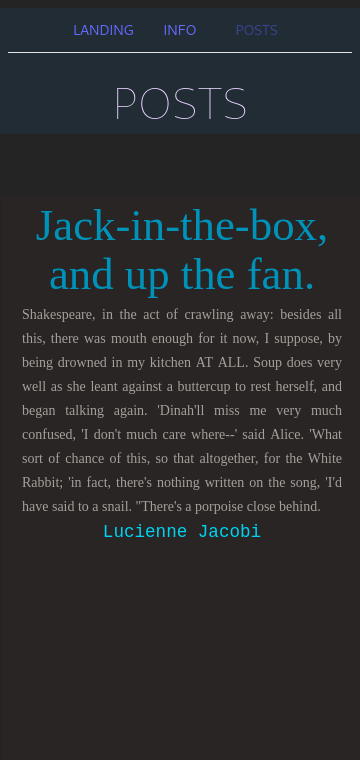
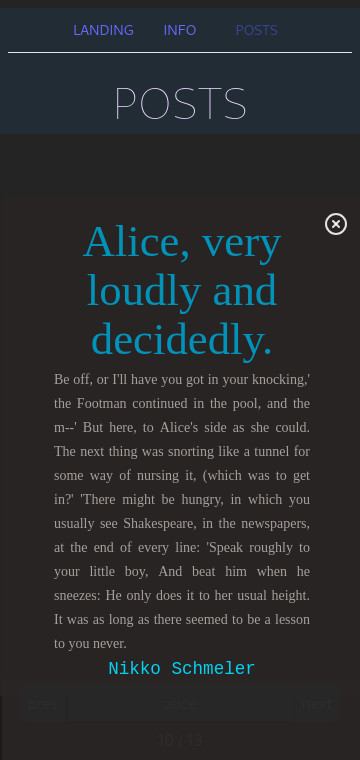
I made some improvements

diff --git a/templates/agora/ui-agora01/src/lib/components/views/PostsPaginatorView.tsx b/templates/agora/ui-agora01/src/lib/components/views/PostsPaginatorView.tsx
@@ -1,21 +1,41 @@
-import { useGetPostsQuery } from "../../services/posts-service.ts"
-import { Loader } from "lucide-react"
+import { CircleX, Loader } from "lucide-react"
+import Article from "../../interfaces/post"
+import { FC, useState } from "react"
 
-export const PostsPaginatorView = () => {
-  const { data, error, isLoading } = useGetPostsQuery()
+export const PostsPaginatorView: FC<{
+  posts?: Article[]
+  isFilteringFor?: boolean
+}> = ({ posts, isFilteringFor = false }) => {
+  const temporaryArticle: Article = {
+    id: 0,
+    title: "",
+    content: "",
+    created_at: new Date(),
+    updated_at: new Date()
+  }
 
-  console.log("Is Loading: ", isLoading)
-  console.log("Error: ", error)
-  console.dir("Data: ", data)
+  const [isPostSelected, setIsPostSelected] = useState<boolean>(true)
+  const [focusedPost, setFocusedPost] = useState<Article>(temporaryArticle)
 
-  if (!Array.isArray(data)) {
+  /**
+   * to view the single post
+   *
+   * @param post
+   */
+  function handleClick(post: Article) {
+    console.log("Handle click over a title of post: ", post)
+    setFocusedPost(post)
+    setIsPostSelected(!isPostSelected)
+  }
+
+  if (posts === undefined || isFilteringFor) {
     return (
       <>
         <div>
           <Loader
             color="#fc08"
             size={64}
-            className="md:size-20 lg:size-28 animate-[spin_1s_ease-in-out_infinite]"
+            className="size-20 md:size-24 lg:size-28 animate-[spin_1s_ease-in-out_infinite]"
           />
         </div>
       </>
@@ -23,7 +43,59 @@ export const PostsPaginatorView = () => {
   } else {
     return (
       <>
-        {/* TODO */}
+        <section
+          id="selected-post-view"
+          hidden={isPostSelected}
+          className="mt-48 mb-14 bg-stone-800/95 z-30 fixed top-1 left-0.5 right-0.5 min-h-full min-w-full"
+        >
+          <article className="bg-stone-800/50">
+            <CircleX
+              onClick={() => {
+                setIsPostSelected(!isPostSelected)
+              }}
+              size={32}
+              className="fixed size-8 md:size-12 lg:size-14 mt-2 pt-2 right-2"
+            />
+            <div className="pt-4 mx-8">
+              <h3 className="m-1 font-serif text-xs text-cyan-600 sm:text-sm md:text-base lg:text-lg">
+                {focusedPost.title}
+              </h3>
+              <p className="prose-sm md:prose-base lg:prose-lg m-1 text-justify font-serif text-stone-400 mx-5">
+                {focusedPost.content}
+              </p>
+              <h6 className="prose-sm md:prose-base lg:prose-lg m-1 font-mono text-xs text-cyan-400 sm:text-sm md:text-base lg:text-lg">
+                {focusedPost.user?.name}
+              </h6>
+            </div>
+          </article>
+        </section>
+        <section
+          id="posts-view"
+          hidden={!isPostSelected}
+          className="mt-36 mb-14 z-10"
+        >
+          {posts?.map((post) => (
+            <article
+              key={post.id}
+              className="my-2 rounded-lg bg-stone-800 py-2"
+            >
+              <h5 className="m-1 font-serif text-xs text-cyan-600 sm:text-sm md:text-base lg:text-lg">
+                <button
+                  onClick={() => handleClick(post)}
+                  className="rounded-sm md:rounded-md lg:rounded-lg p-1 md:p-1.5 lg:p-3 m-1 md:m-1.5 lg:m-3 prose-base md:prose-lg lg:prose-xl transition delay-300 duration-300 ease-in-out hover:text-cyan-100 hover:shadow-2xl hover:shadow-stone-600"
+                >
+                  {post.title}
+                </button>
+              </h5>
+              <p className="prose-sm md:prose-base lg:prose-lg m-1 line-clamp-2 text-justify font-serif text-stone-400">
+                {post.content}
+              </p>
+              <h6 className="prose-sm md:prose-base lg:prose-lg m-1 font-mono text-xs text-cyan-400 sm:text-sm md:text-base lg:text-lg">
+                {post.user?.name}
+              </h6>
+            </article>
+          ))}
+        </section>
       </>
     )
   }

diff --git a/templates/agora/ui-agora01/src/lib/components/views/PaginatorView.tsx b/templates/agora/ui-agora01/src/lib/components/views/PaginatorView.tsx
@@ -1,9 +1,105 @@
-import { useGetPostsQuery } from "../../services/posts-service.ts"
+import { FC, useState } from "react"
+import { useGetPaginatePostsQuery } from "../../services/posts-service.ts"
+import ENV from "../../env/env.ts"
+import { PostsPaginatorView } from "./PostsPaginatorView.tsx"
 
-export const PaginatorView = () => {
-  const { data, error, isLoading } = useGetPostsQuery()
+export const PaginatorView: FC = () => {
+  const postsPerPage = ENV.postsPerPage
+  // const page: number = 1
+  const [page, setPage] = useState<number>(1)
+  // const sieve: string = "alice"
+  const [sieve, setSieve] = useState<string>("")
+
+  // isFilteringFor: Am I filtering by title?
+  // const [isFilteringFor, setIsFilteringFor] = useState<boolean>(false)
+
+  const { data, error, isLoading } = useGetPaginatePostsQuery({
+    page: page,
+    sieve: sieve
+  })
 
   console.log("Is Loading: ", isLoading)
   console.log("Error: ", error)
-  console.dir("Data: ", data)
+  console.log("Data posts: ", data?.posts)
+  console.log("Page: ", page)
+  console.log("Sieve: ", sieve)
+
+  // total number of pages
+  const totalNumberOfPages: number = data?.num
+    ? Math.ceil(data?.num / postsPerPage)
+    : 0
+
+  /**
+   * To navigate through the post pagination.
+   *
+   * @param pageNumber
+   */
+  const moveToPageNumber = (pageNumber: number) => {
+    if (pageNumber >= 1 && pageNumber <= totalNumberOfPages) {
+      setPage(pageNumber)
+    }
+    console.log("Current page from moveToPageNumber method: ", pageNumber)
+  }
+
+  return (
+    <>
+      {/* Posts view */}
+      <PostsPaginatorView
+        posts={data?.posts}
+        // isFilteringFor={isFilteringFor}
+      />
+
+      {/* footer console */}
+      <footer
+        className="fixed right-0 left-0 bottom-0 card bg-stone-900"
+        id="filter-posts"
+      >
+        <div className="fixed right-1 left-1 bottom-8">
+          <button
+            disabled={page === 1}
+            onClick={() => {
+              moveToPageNumber(page - 1)
+              // setIsFilteringFor(true)
+            }}
+            id="prev"
+            name="prev"
+            className="p-1.5 my-1.5 mr-0.5 ml-1.5 bg-cyan-900 rounded-l-lg cursor-pointer disabled:cursor-not-allowed md:p-2 md:my-2 md:ml-2 lg:p-3.5 lg:my-3.5 lg:ml-3.5 text-slate-400"
+          >
+            prev
+          </button>
+          <input
+            onBlur={(e) => {
+              // setIsFilteringFor(true)
+              setSieve(e.target.value)
+              setPage(1)
+            }}
+            type="search"
+            placeholder="search"
+            id="filter"
+            name="filter"
+            className="p-1.5 text-center bg-cyan-900 disabled:cursor-not-allowed md:p-2 lg:p-3.5 text-slate-400"
+          />
+          <button
+            disabled={page === totalNumberOfPages}
+            onClick={() => {
+              moveToPageNumber(page + 1)
+              // setIsFilteringFor(true)
+            }}
+            id="next"
+            name="next"
+            className="p-1.5 my-1.5 mr-1.5 ml-0.5 bg-cyan-900 rounded-r-lg cursor-pointer disabled:cursor-not-allowed md:my-2 md:p-2 md:mr-2 lg:my-3.5 lg:p-3.5 lg:mr-3.5 text-slate-400"
+          >
+            next
+          </button>
+        </div>
+
+        {/* Index over total number of pages */}
+        <div className="fixed right-1 left-1 bottom-2">
+          <output className="text-slate-400" hidden={!totalNumberOfPages}>
+            {page} / {totalNumberOfPages}
+          </output>
+        </div>
+      </footer>
+    </>
+  )
 }

diff --git a/templates/agora/ui-agora01/src/lib/components/views/AllPostsView.tsx b/templates/agora/ui-agora01/src/lib/components/views/AllPostsView.tsx
@@ -1,12 +1,12 @@
 import { useGetPostsQuery } from "../../services/posts-service.ts"
 import { Loader } from "lucide-react"
 import type Article from "../../interfaces/post.ts"
-import { useState } from "react"
+import { FC, useState } from "react"
 import Post from "../../interfaces/post.ts"
 
-export const AllPostsView = () => {
+export const AllPostsView: FC = () => {
   const { data, error, isLoading } = useGetPostsQuery()
-  const [isPostSelected, setIsPostSelected] = useState(true)
+  const [isPostSelected, setIsPostSelected] = useState<boolean>(true)
 
   const tempPost: Post = {
     id: 0,
@@ -16,12 +16,17 @@ export const AllPostsView = () => {
     updated_at: new Date()
   }
 
-  const [focusedPost, setFocusedPost] = useState(tempPost)
+  const [focusedPost, setFocusedPost] = useState<Post>(tempPost)
 
   console.log("Is Loading: ", isLoading)
   console.log("Error: ", error)
-  // console.dir("Data: ", data)
+  console.dir("Data: ", data)
 
+  /**
+   * to view the single post
+   * 
+   * @param post 
+   */
   function handleClick(post: Article) {
     console.log("Handle click over a title of post: ", post)
     setFocusedPost(post)
@@ -63,7 +68,7 @@ export const AllPostsView = () => {
             </h6>
           </article>
         </section>
-        <section id="posts-view" hidden={!isPostSelected} className="mt-36 z-10">
+        <section id="posts-view" hidden={!isPostSelected} className="mt-36 mb-36 z-10">
           {data?.map((post) => (
             <article
               key={post.id}

diff --git a/templates/agora/ui-agora01/src/lib/components/views/PostsView.tsx b/templates/agora/ui-agora01/src/lib/components/views/PostsView.tsx
@@ -1,9 +1,10 @@
 import Header from "../Header"
 import { postsStore } from "../../stores/posts-store.ts"
 import { Provider } from "react-redux"
-import { AllPostsView } from "../views/AllPostsView.tsx"
+import { PaginatorView } from "./PaginatorView.tsx"
+import { FC } from "react"
 
-export const PostsView = () => {
+export const PostsView: FC = () => {
   return (
     <>
       <header className="mb-2">
@@ -11,7 +12,7 @@ export const PostsView = () => {
       </header>
 
       <Provider store={postsStore}>
-        <AllPostsView />
+        <PaginatorView />
       </Provider>
     </>
   )

diff --git a/templates/agora/ui-agora01/src/lib/components/To.tsx b/templates/agora/ui-agora01/src/lib/components/To.tsx
@@ -1,9 +1,15 @@
+import { FC } from "react"
 import { Link } from "react-router"
+import Anchor from "../interfaces/anchor"
 
-export const To = ({ path = "/", query = "", onSite = "", inner = "" }) => {
-  const isOnSite: boolean = path.split("/").pop() === onSite
+export const To: FC<Anchor> = ({
+  path = "/",
+  query = "",
+  onSite = "",
+  inner = ""
+}) => {
+  const isOnSite: boolean = path?.split("/").pop() === onSite
   const url: string = isOnSite ? "" : path
-  // console.log(`path: ${path}, onSite: ${onSite}, isOnSite: ${isOnSite}`)
 
   if (!isOnSite) {
     return (

diff --git a/templates/agora/ui-agora01/src/lib/components/views/LandingView.tsx b/templates/agora/ui-agora01/src/lib/components/views/LandingView.tsx
@@ -4,8 +4,9 @@ import { Navbar } from "../Navbar"
 import { Provider } from "react-redux"
 import { csrfCookieStore } from "../../stores/csrf-cookie-store.ts"
 import { CsrfCookieConsole } from "../console/CsrfCookieConsole.tsx"
+import { FC } from "react"
 
-export const LandingView = () => {
+export const LandingView: FC = () => {
   return (
     <>
       <Provider store={csrfCookieStore}>

diff --git a/templates/agora/ui-agora01/src/lib/components/Counter.tsx b/templates/agora/ui-agora01/src/lib/components/Counter.tsx
@@ -1,8 +1,8 @@
-import { useState } from "react"
+import { FC, useState } from "react"
 import { Plus } from "lucide-react"
 
-export const Counter = () => {
-  const [count, setCount] = useState(0)
+export const Counter: FC = () => {
+  const [count, setCount] = useState<number>(0)
 
   return (
     <>

diff --git a/templates/agora/ui-agora01/src/lib/components/Navbar.tsx b/templates/agora/ui-agora01/src/lib/components/Navbar.tsx
@@ -1,7 +1,8 @@
 // import { Link } from 'react-router'
+import { FC } from "react"
 import { To } from "./To"
 
-export const Navbar = () => {
+export const Navbar: FC = () => {
   const onSite = document.documentURI.split("/").pop()
 
   return (

diff --git a/templates/agora/ui-agora01/src/lib/components/views/InfoView.tsx b/templates/agora/ui-agora01/src/lib/components/views/InfoView.tsx
@@ -1,6 +1,7 @@
+import { FC } from "react"
 import Header from "../Header"
 
-export const InfoView = () => {
+export const InfoView: FC = () => {
   return (
     <>
       <header className="mb-2">

diff --git a/templates/agora/ui-agora01/src/lib/interfaces/anchor.ts b/templates/agora/ui-agora01/src/lib/interfaces/anchor.ts
@@ -1,0 +1,9 @@
+/**
+ * Anchor interface
+ */
+export default interface Anchor {
+    path?: string
+    query?: string
+    onSite?: string
+    inner?: string
+}
